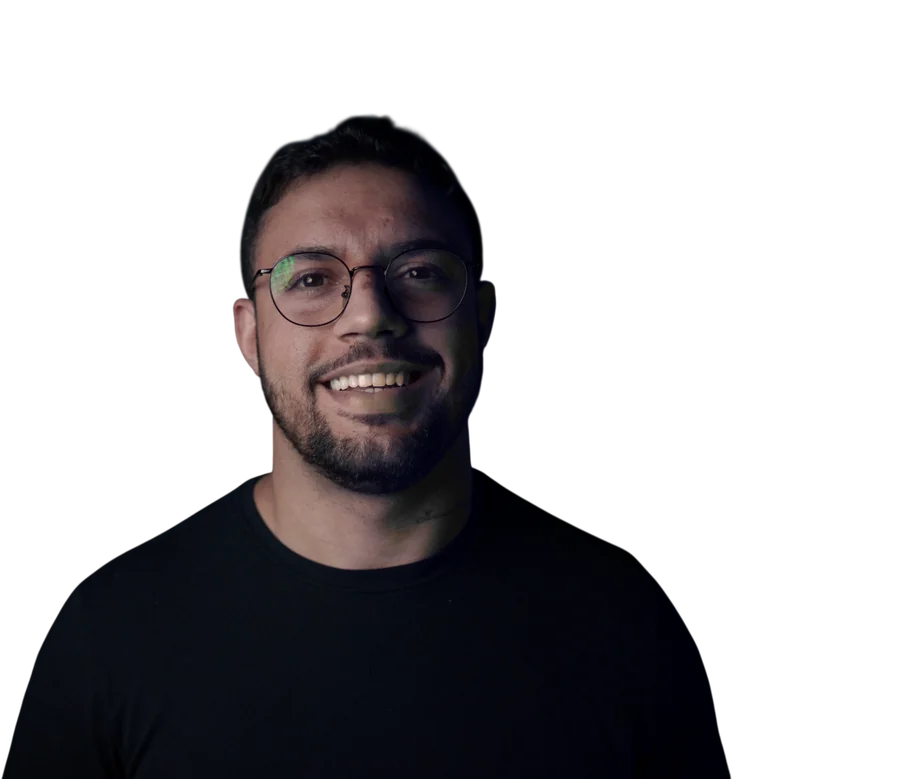
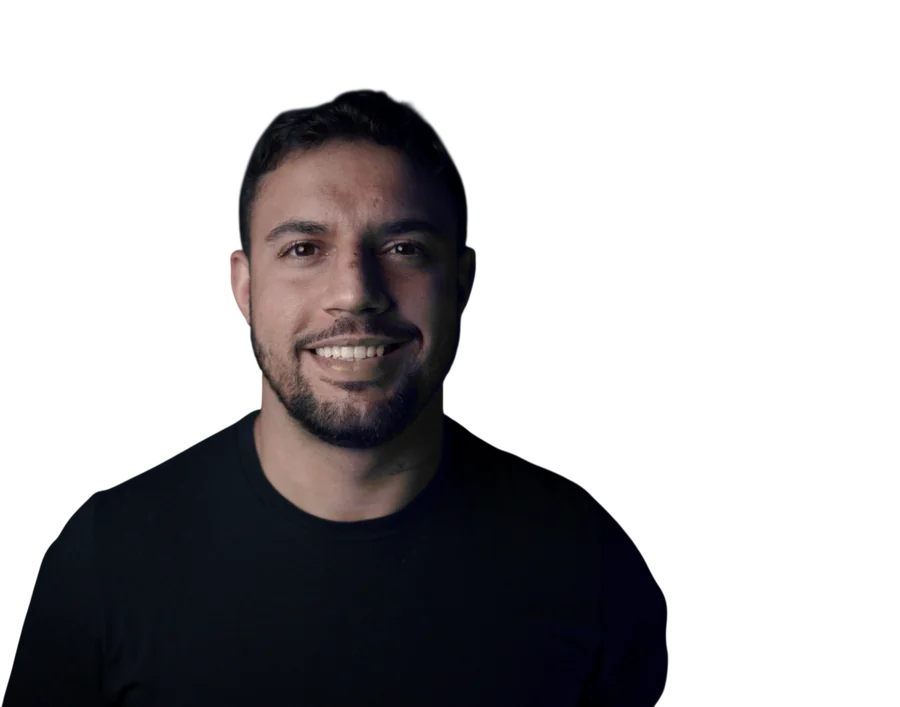
Consultoria: foto sem óculos

diff --git a/consultoria/index.html b/consultoria/index.html
@@ -279,7 +279,7 @@
       <div class="afresco reticula"><img src="maos.webp" alt="" width="1000" height="470"></div>
       <span class="faisca" aria-hidden="true">&gt;<span>_</span></span>
       <span class="anot" aria-hidden="true">a faísca: ideia vira sistema</span>
-      <div class="eu"><img src="raphael.webp" alt="Raphael Busquet sorrindo, de óculos e camiseta preta" width="900" height="779"></div>
+      <div class="eu"><img src="raphael.webp" alt="Raphael Busquet sorrindo, de camiseta preta" width="900" height="707"></div>
       <div class="terminal" aria-label="Exemplos de automações rodando">
         <div class="barra"><i></i><i></i><i></i><span>automacoes.log</span></div>
         <ol id="log">
@@ -426,7 +426,7 @@
 
   <section id="sobre" style="background:var(--papel-2); border-block:1px solid var(--linha)">
     <div class="wrap sobre">
-      <div class="retrato"><img src="raphael.webp" alt="" width="900" height="779" loading="lazy"><span class="anot" aria-hidden="true">eu, o artesão</span></div>
+      <div class="retrato"><img src="raphael.webp" alt="" width="900" height="707" loading="lazy"><span class="anot" aria-hidden="true">eu, o artesão</span></div>
       <div>
         <span class="rotulo">sobre</span>
         <h2>Eu programo o que <em>recomendo</em>.</h2>
